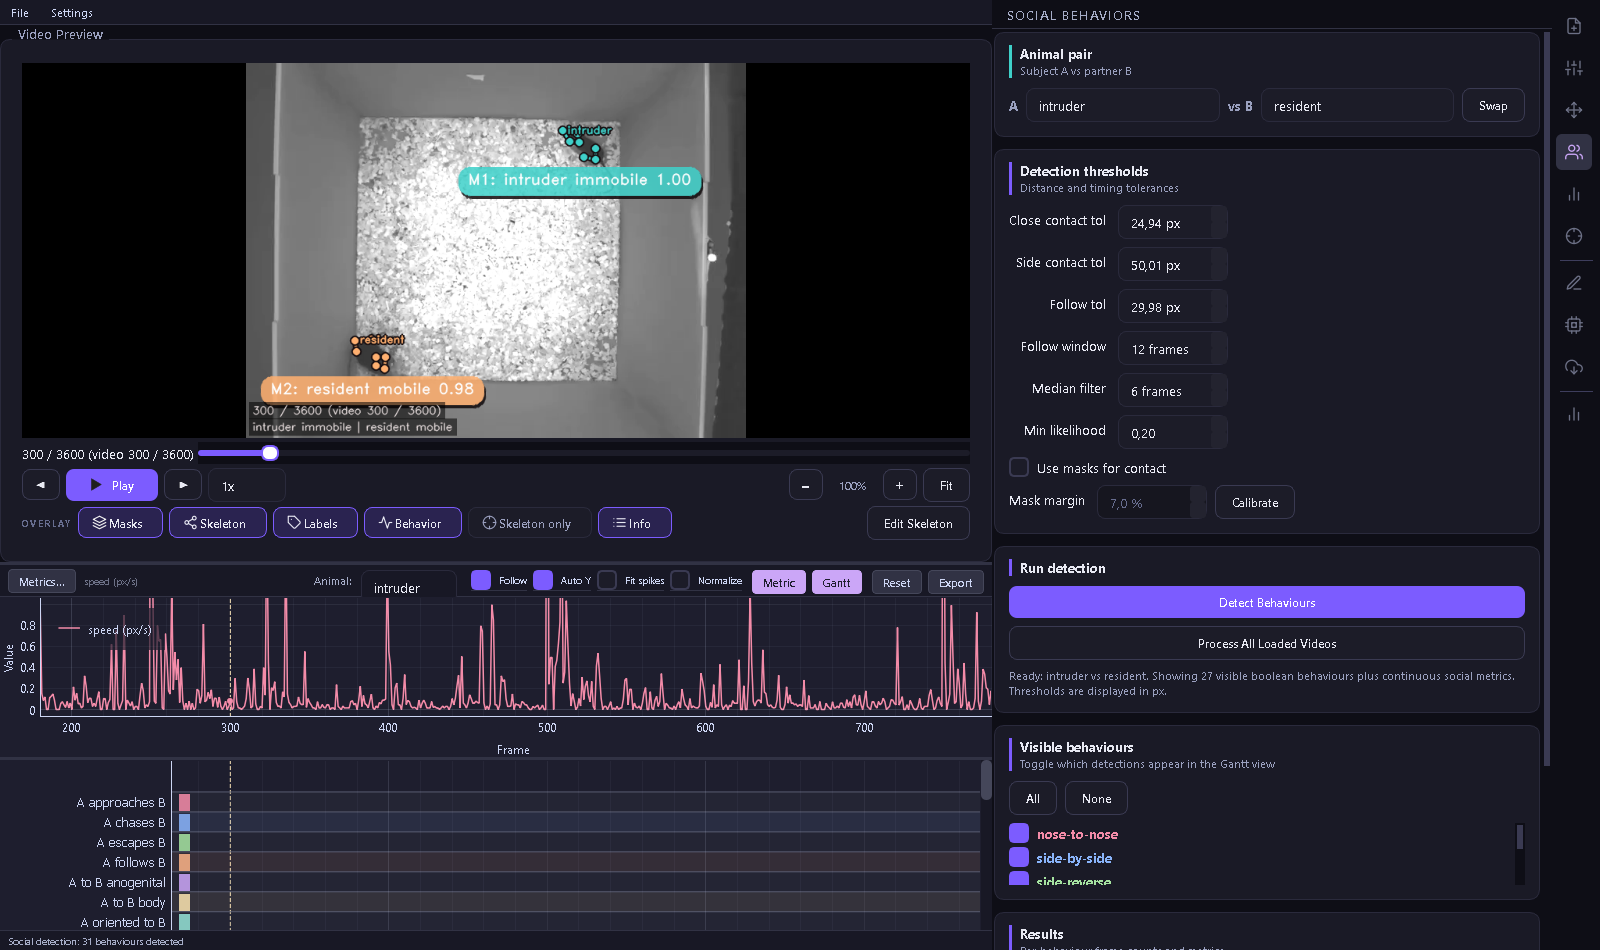
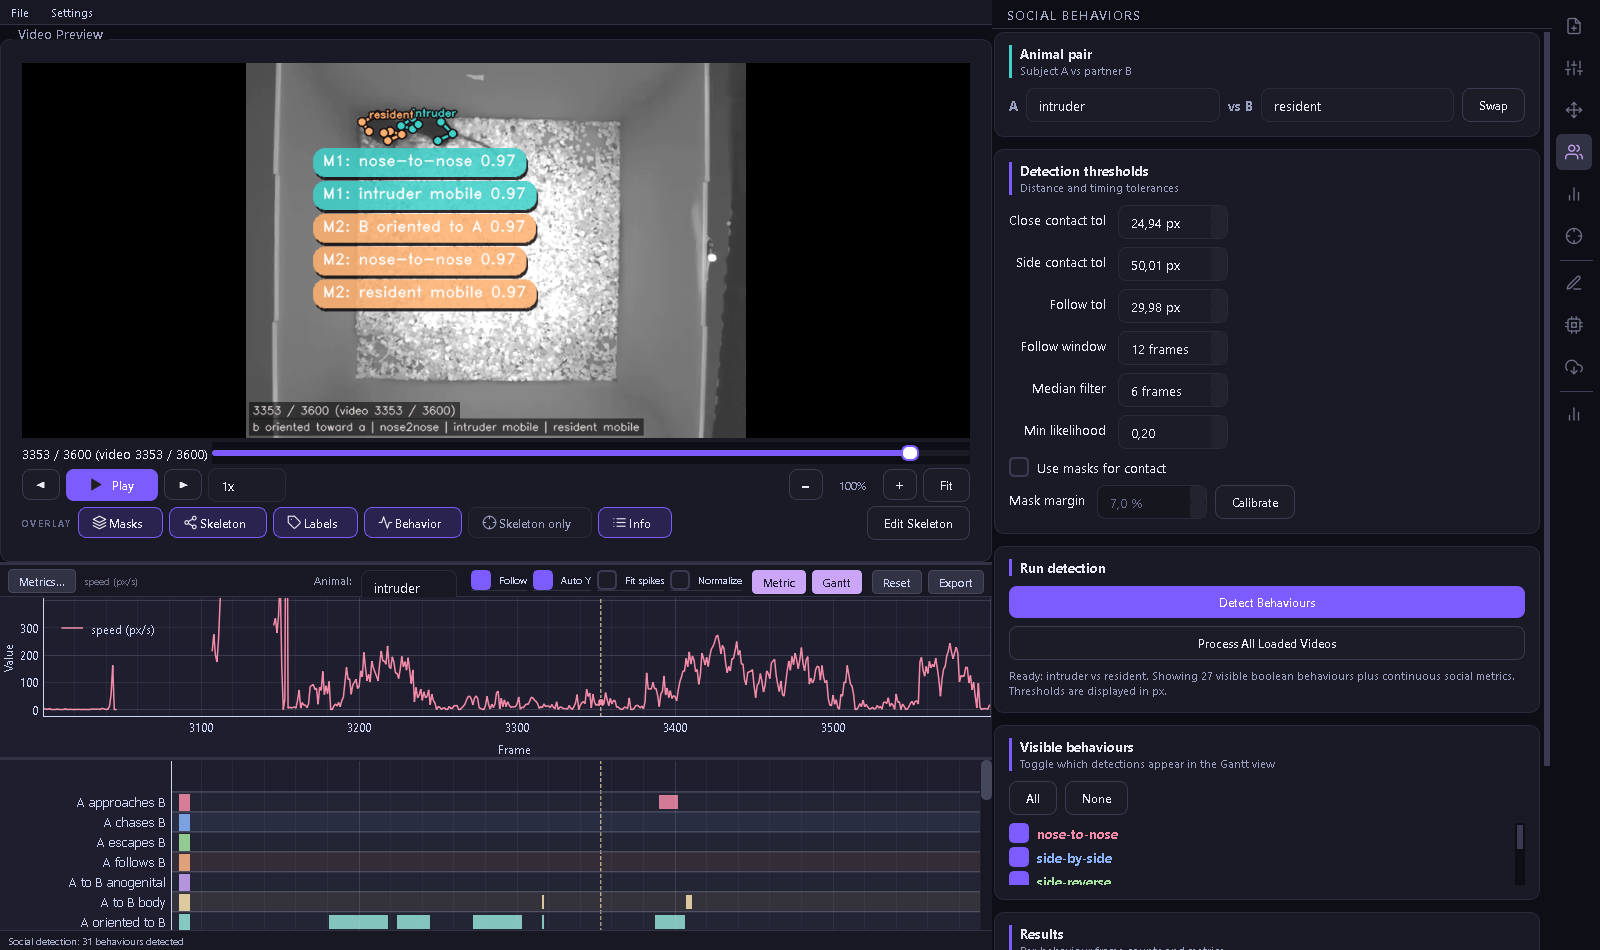
Fix README overlay screenshots: show real detected nose-to-nose contact
The previous docs harness forced a fabricated nose2nose badge onto a frame
where the mice were in opposite corners. Regenerate all three screenshots
from genuine detection on the true tracking coordinates, at the real
nose-to-nose contact (~frame 3353, the 110 s mark), and update the caption.

diff --git a/README.md b/README.md
@@ -59,8 +59,9 @@ glue code:
 ## 📸 More views
 
 **Tracking overlay.** Each animal gets its own colored skeleton, with the active behaviours
-printed right on the frame (here: `A to B body`, `B to A body`, `B oriented to A`, `mask contact`,
-`passive investigation`, mobility states) and an optional segmentation-mask contact check.
+printed right on the frame as rounded, color-coded badges. Here both mice are caught
+nose-to-nose, each badge showing the behaviour and a per-animal confidence score
+(`M1: nose-to-nose 0.97`, `M2: nose-to-nose 0.97`).
 
 ![Tracking overlay close-up](docs/screenshot_video.png)
 